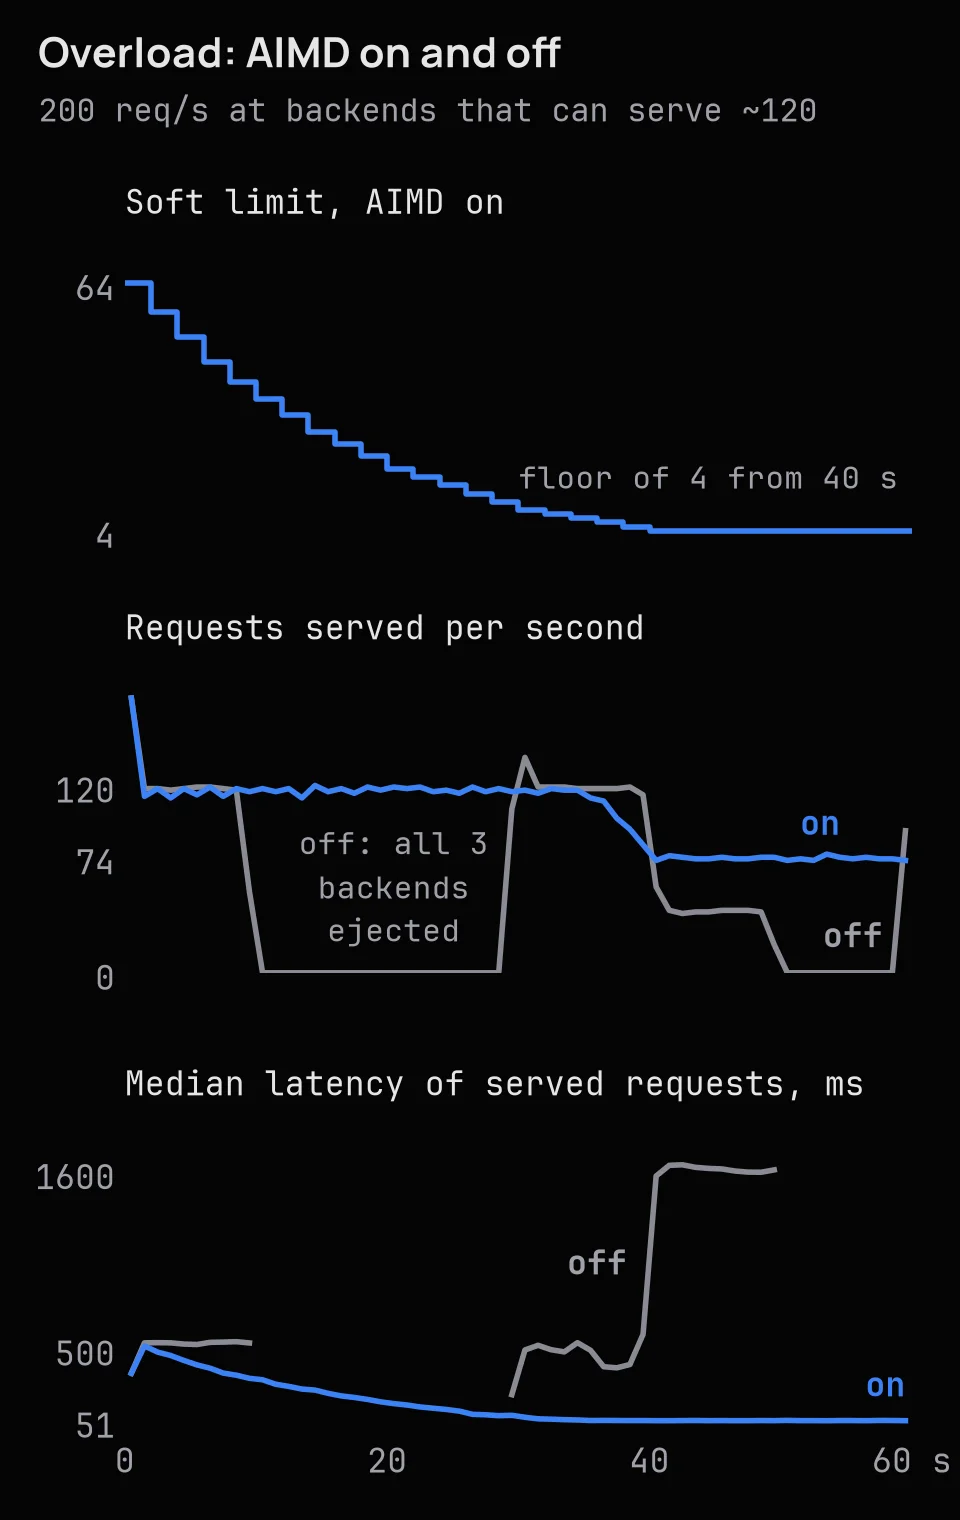
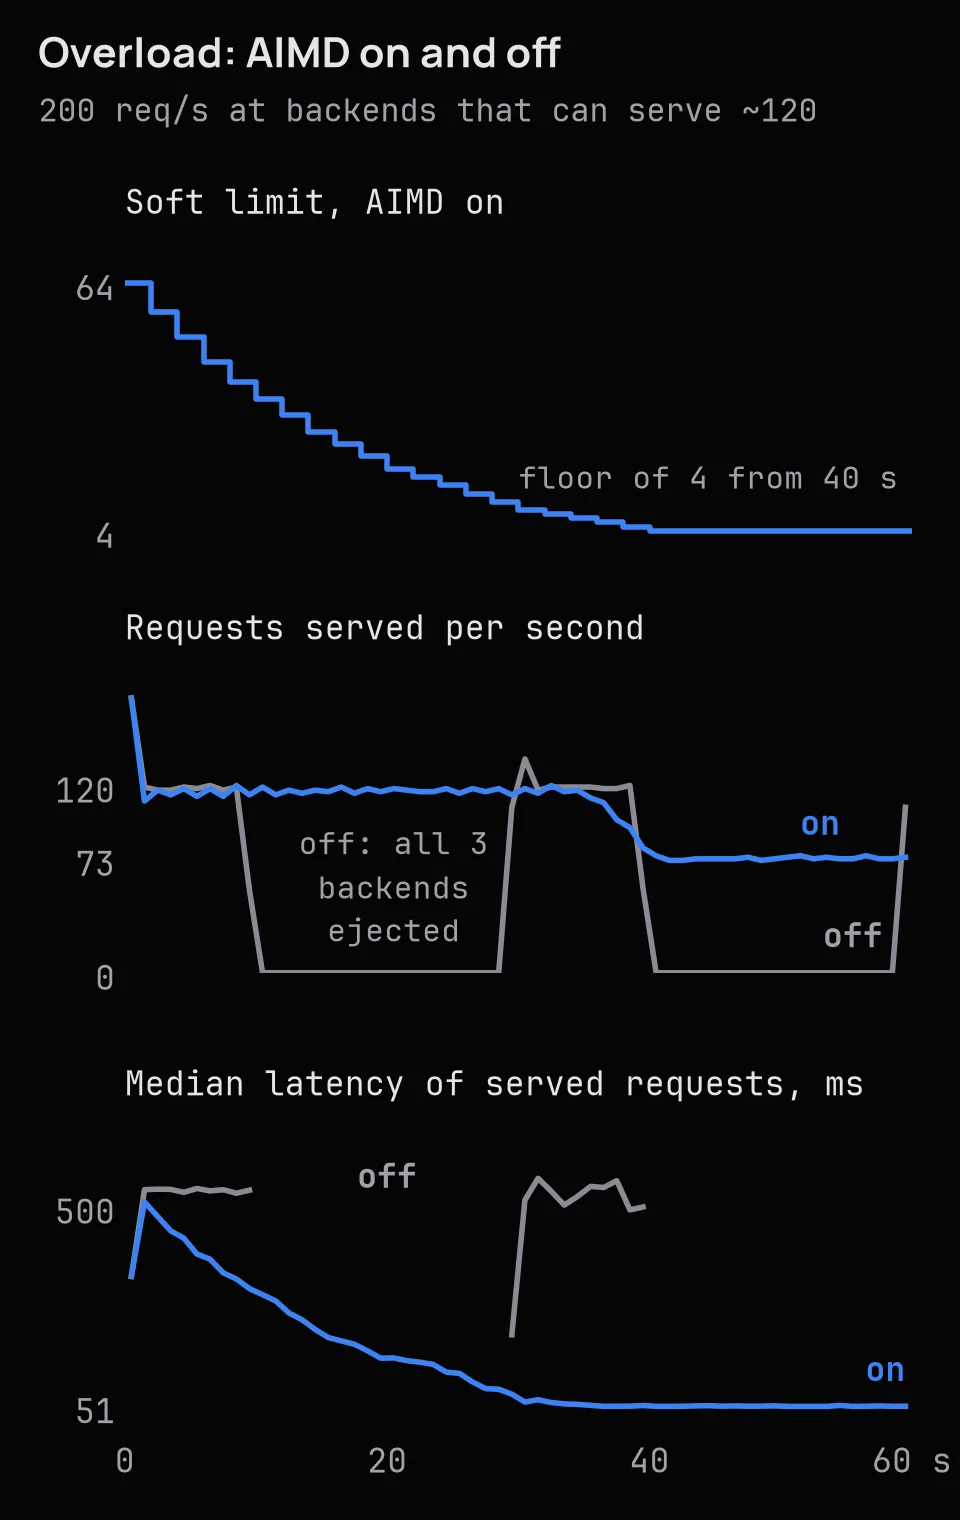
load-balancer case study: fill from the measured runs, redraw charts from the UTC runs
Claude-Session: https://claude.ai/code/session_01K44cDh2WvWMAHA7k8fudJW

diff --git a/src/app/projects/load-balancer/page.tsx b/src/app/projects/load-balancer/page.tsx
@@ -6,7 +6,7 @@ import { Icon } from '@/components/icons'
 import { Shot } from '@/components/case-study/shot'
 
 const DESCRIPTION =
-  'A concurrent HTTP load balancer in Go, written for SIT315 at Deakin in 2025. Five ways to pick a backend, health checks, circuit breakers, retries, an AIMD concurrency limit and Prometheus metrics, measured on a MacBook in October 2026 with real logs.'
+  'A concurrent HTTP load balancer in Go, written for SIT315 at Deakin in 2025: four balancing strategies plus sticky and canary routing, health checks, circuit breakers, retries, an AIMD concurrency limit and Prometheus metrics. Re-tested on my MacBook in October 2026, with real logs.'
 
 export const metadata: Metadata = {
   title: 'load-balancer · Go',
@@ -19,11 +19,13 @@ export const metadata: Metadata = {
     url: '/projects/load-balancer',
     title: 'load-balancer · Samridh Limbu',
     description: DESCRIPTION,
+    images: [{ url: '/projects/load-balancer/failover.webp', width: 960, height: 920, alt: 'Chart: requests served per second while one of three backends is killed and restarted' }],
   },
   twitter: {
-    card: 'summary',
+    card: 'summary_large_image',
     title: 'load-balancer · Samridh Limbu',
     description: DESCRIPTION,
+    images: ['/projects/load-balancer/failover.webp'],
   },
 }
 
@@ -35,38 +37,81 @@ const GREEN = 'var(--term-green)'
 const PROSE = { fontFamily: SANS, fontSize: 15, color: 'var(--fg-dim)', lineHeight: 1.65, maxWidth: 640 }
 
 const METRICS = [
-  { k: 'mean latency, RR → P2C', v: '__RR_MEAN__ → __P2C_MEAN__ ms' },
-  { k: 'failed of __FO_N__ with a backend killed', v: '__FO_ERR__' },
+  { k: 'mean latency, round-robin → P2C', v: '54 → 32 ms' },
+  { k: 'failed of 19,995 with a backend killed', v: '1' },
+  { k: 'served under overload, AIMD on vs off', v: '6,090 vs 2,527' },
   { k: 'lines of Go', v: '1,801' },
 ]
 
 // Real excerpts from $S/runs/*/lb.log and /metrics, lines trimmed by selection only.
-const FAILOVER_LOG = `__FAILOVER_LOG__`
+const FAILOVER_LOG = `2026/10/27 17:14:25 http://localhost:8430 [up]
+2026/10/27 17:14:25 http://localhost:8431 [up]
+2026/10/27 17:14:25 http://localhost:8432 [up]
+2026/10/27 17:14:25 Go LB v21 (HD Edition) starting at :3430
+…
+2026/10/27 17:14:45 INFO access req_id=3c0744b3f40b508d5fcdbf3a7d2b3202 client=10.0.0.198 method=GET path=/ backend=http://localhost:8432 status=200 latency_ms=60.315583
+2026/10/27 17:14:45 INFO access req_id=2321bd34b9b81e6679ca524d0920d61a client=10.0.0.1 method=GET path=/ backend=http://localhost:8432 status=200 latency_ms=48.675250000000005
+2026/10/27 17:14:45 INFO access req_id=809004577bb75a7e360c8678be3b42de client=10.0.0.4 method=GET path=/ backend=http://localhost:8432 status=200 latency_ms=56.56
+…
+2026/10/27 17:14:55 health: http://localhost:8432 -> DOWN
+…
+2026/10/27 17:14:55 INFO access req_id=64315b73bf0bdd9a146195b72906b4bb client=10.0.0.6 method=GET path=/ backend=http://localhost:8432 status=502 latency_ms=29.057333
+…
+2026/10/27 17:15:05 INFO access req_id=f05d8cbe8fb83f595ef24519cc64f24d client=10.0.0.13 method=GET path=/ backend=http://localhost:8432 status=200 latency_ms=57.404790999999996
+…
+2026/10/27 17:15:15 INFO access req_id=c7572b35a3c655e792dbbdf7d7279739 client=10.0.0.19 method=GET path=/ backend=http://localhost:8432 status=200 latency_ms=16.756917
+…
+2026/10/27 17:15:21 health: http://localhost:8432 -> UP`
 
-const FAILOVER_METRICS = `__FAILOVER_METRICS__`
+const FAILOVER_METRICS = `lb_backend_requests_total{backend="http://localhost:8430",code="200"} 8174
+lb_backend_requests_total{backend="http://localhost:8431",code="200"} 8175
+lb_backend_requests_total{backend="http://localhost:8432",code="200"} 3645
+lb_backend_requests_total{backend="http://localhost:8432",code="502"} 1
+lb_backend_up{backend="http://localhost:8430"} 1
+lb_backend_up{backend="http://localhost:8431"} 1
+lb_backend_up{backend="http://localhost:8432"} 1
+lb_requests_total{code="200",method="GET"} 19994
+lb_requests_total{code="502",method="GET"} 1`
 
-const OVERLOAD_LOG = `__OVERLOAD_LOG__`
+const OVERLOAD_LOG = `2026/10/27 17:18:57 outlier: http://localhost:8430 ejected for latency (errRate=0.00, ewma=0.523s) until 2026-10-27T17:19:17Z
+2026/10/27 17:18:57 outlier: http://localhost:8431 ejected for latency (errRate=0.00, ewma=0.535s) until 2026-10-27T17:19:17Z
+2026/10/27 17:18:57 outlier: http://localhost:8432 ejected for latency (errRate=0.00, ewma=0.545s) until 2026-10-27T17:19:17Z
+…
+2026/10/27 17:19:27 outlier: http://localhost:8430 ejected for latency (errRate=0.00, ewma=0.501s) until 2026-10-27T17:19:47Z
+2026/10/27 17:19:27 outlier: http://localhost:8431 ejected for latency (errRate=0.00, ewma=0.458s) until 2026-10-27T17:19:47Z
+2026/10/27 17:19:27 outlier: http://localhost:8432 ejected for latency (errRate=0.00, ewma=0.647s) until 2026-10-27T17:19:47Z
+…
+lb_backend_outlier_ejections_total{backend="http://localhost:8430",reason="latency"} 2
+lb_backend_outlier_ejections_total{backend="http://localhost:8431",reason="latency"} 2
+lb_backend_outlier_ejections_total{backend="http://localhost:8432",reason="latency"} 2
+lb_requests_total{code="200",method="GET"} 2527
+lb_requests_total{code="503",method="GET"} 9472`
 
-const STRATEGY_ROWS: [string, string, string, string, string][] = __STRATEGY_ROWS__
+const STRATEGY_ROWS: [string, string, string, string, string][] = [
+  ['round-robin', '33.3 %', '24.3', '125.0', '126.2'],
+  ['weighted RR 3:3:1', '14.3 %', '22.1', '122.9', '126.0'],
+  ['least-conn', '10.3 %', '22.7', '123.0', '127.6'],
+  ['P2C-EWMA', '11.0 %', '21.6', '121.7', '125.6'],
+]
 
 const DECISIONS = [
-  ['a breaker per backend', 'health checks alone', 'Three failures in a row open a backend\'s circuit breaker, and the picker skips it. In the kill test that happened inside the first second; the health check, which needs two failed probes 5 s ± 2 s apart, marked it down __FO_DOWN__ s later.'],
+  ['a breaker per backend', 'health checks alone', 'Three failures in a row open a backend\'s circuit breaker, and the picker skips it. In the kill test that happened inside the first second; the health check, which needs two failed probes 5 s ± 2 s apart, marked it down about 10 s later.'],
   ['retry GET, HEAD and OPTIONS only', 'retry everything', 'When the connection to a backend fails, the proxy waits 10 to 40 ms and sends the request to another backend, up to twice. A POST is never resent, because it might already have done its work.'],
   ['P2C on EWMA latency', 'checking every backend', 'Each request looks at two random backends and compares one number for each, so the work per request stays the same as the pool grows. The EWMA moves 20 % of the way to each new response time.'],
   ['a soft limit inside a hard one', 'one fixed connection cap', 'A semaphore of 64 is the hard ceiling. Below it, AIMD moves a soft limit between 4 and 64 every 2 s: down to 90 % when average latency is over 200 ms or more than 5 % of requests are turned away, otherwise up by one.'],
-  ['switches at runtime', 'restarts', 'POST /admin/flip changes the strategy on a running balancer, and backends can be added, removed or drained without a restart. Every strategy test below used /admin/flip on a fresh process.'],
+  ['switches at runtime', 'restarts', 'POST /admin/flip changes the strategy on a running balancer, and backends can be added, removed or drained without a restart. Each strategy run below started a fresh process and set its strategy with /admin/flip; round-robin is the default.'],
 ]
 
 const FIXES = [
-  ['Half-open ignores the health check.', 'After 10 s an open breaker lets requests through again, even when the backend is marked down. In the kill test that cost one 502 every 10 s until the backend came back.'],
-  ['AIMD can lock itself at the floor.', 'The reject rate counts the requests the limit itself turns away. Once the limit is low, rejects stay above 5 %, so it never climbs back, and served traffic stayed at __AIMD_FLOOR_RPS__ a second when the backends could take about 120.'],
-  ['Outlier ejection has no cap.', 'With AIMD off, all three backends crossed the 400 ms line in the same 10 s window and were ejected together, so the balancer served nothing for 20 s.'],
+  ['Half-open ignores the health check.', 'After 10 s an open breaker lets requests through again, even when the health check has marked the backend down. In the kill test those trials hit the dead backend every 10 s. With retries on, one reached a client as a 502; with retries off, two did.'],
+  ['AIMD can lock itself at the floor.', 'The reject rate counts the requests the limit itself turns away. While more traffic arrives than the backends can serve, some must be turned away, so rejects never drop under 5 % and the limit only goes down. It sat at 4 from 40 s on, and served traffic fell to 73 a second when the backends could take about 120.'],
+  ['Outlier ejection has no cap.', 'With AIMD off, all three backends crossed the 400 ms line in the same 10 s window and were ejected together, so the balancer served nothing for 20 s, twice in one minute.'],
   ['The rate limit trusts X-Forwarded-For.', 'Any client can set that header and get a fresh token bucket. The load generator here used it on purpose, to act as 200 clients.'],
   ['The access log names the first pick.', 'A request that failed on a dead backend and was retried elsewhere is logged against the dead one, with status 200. The README calls the log JSON; it is key=value text.'],
 ]
 
 const STACK: [string, string][] = [
-  ['Language', 'Go (go.mod says 1.23; built here with 1.27)'],
+  ['Language', 'Go (go.mod says 1.23; built for these tests with 1.27.3)'],
   ['Strategies', 'round-robin · weighted round-robin · least-connections · P2C-EWMA · IP-hash sticky · canary percentage'],
   ['Resilience', 'semaphore · AIMD soft limit · token bucket per client · circuit breaker · active health checks · outlier ejection · 30 s warm-up · retries'],
   ['Observability', 'Prometheus client_golang at /metrics · log/slog access log · /admin/metrics/json'],
@@ -105,7 +150,7 @@ export default function LoadBalancerPage() {
             <span className="pill" style={{ fontFamily: MONO }}>SIT315 · Go · 2025</span>
           </div>
           <p style={{ ...PROSE, fontSize: 'var(--text-base)', margin: 0 }}>
-            __INTRO__
+            A reverse proxy in Go that spreads HTTP requests across a pool of backends. I wrote it for SIT315 (Concurrent and Distributed Systems) at Deakin in 2025. In October 2026 I ran it again on my MacBook against fake backends, to see which of its features help under load. The charts and logs on this page come from those runs.
           </p>
           <div style={{ display: 'flex', gap: 8, flexWrap: 'wrap', marginTop: 16 }}>
             <a href="https://github.com/clupai8o0/load-balancer" target="_blank" rel="noopener noreferrer" className="btn btn-primary" style={{ fontFamily: MONO }}><Icon name="github" size={12} /> github</a>
@@ -126,7 +171,7 @@ export default function LoadBalancerPage() {
         <div style={{ marginBottom: 40 }}>
           <div className="section-label" style={{ fontFamily: MONO }}>Context</div>
           <p style={{ ...PROSE, margin: 0 }}>
-            __CONTEXT__
+            The unit asked for a concurrent load balancer. I kept adding to it until the code reached v21: a semaphore, health checks, circuit breakers, four balancing strategies, rate limits, retries, an adaptive concurrency limit, outlier ejection, warm-up and Prometheus metrics, with strategies and backends switchable while it runs. This page puts them under load together: what each strategy does with one slow backend, what happens when a backend dies, and what happens when more traffic arrives than the backends can take.
           </p>
         </div>
 
@@ -145,28 +190,28 @@ export default function LoadBalancerPage() {
         {/* Test rig */}
         <div className="section-label" style={{ fontFamily: MONO }}>How I tested it</div>
         <p style={{ ...PROSE, margin: '0 0 40px' }}>
-          __RIG__
+          Everything ran on my MacBook on 27 Oct 2026, built from the repo as it is on GitHub. Three dummy backends in Go sleep for a set time per request, give or take 5 ms, and can be limited to a few requests at once. An open-loop load generator, also in Go, sends a fixed number of requests a second whatever the response time. It spreads them over 200 fake clients so the per-client rate limit stays out of the way, records every response and scrapes /metrics once a second. A Python script starts everything, kills and restarts backends on cue and keeps the logs. The repo has a single commit, so there is no older version to compare against. For the before-and-after tests I built two copies with one change each: retries off, and the AIMD controller off.
         </p>
 
         {/* Strategies */}
         <div className="section-label" style={{ fontFamily: MONO }}>Four strategies, one slow backend</div>
         <p style={{ ...PROSE, margin: '0 0 20px' }}>
-          __STRAT_PROSE__
+          Two backends answer in about 20 ms and the third in about 120 ms. Each strategy got 200 requests a second for 60 s on a fresh process, three times. Round-robin sends the slow backend a third of the traffic, and weighted round-robin at 3:3:1 a seventh. Least-connections and P2C both send it about a tenth and cut the mean from 54 ms to 32 or 33. Those two tie: the gap between them is smaller than the gap between runs of the same strategy. The p95 and p99 hardly move, because the slow backend still takes more than 5 % of requests and they are the slowest ones.
         </p>
         <div data-reveal style={{ maxWidth: 480, margin: '0 auto 24px' }}>
           <Shot
             src="/projects/load-balancer/strategies.webp"
-            alt="__STRAT_ALT__"
+            alt="Two bar charts. Share of requests sent to the slow backend: round-robin 33 %, weighted RR 14 %, least-conn 10 %, P2C-EWMA 11 %. Mean latency: 54, 36, 33 and 32 ms."
             width={960}
             height={1000}
-            caption="__STRAT_CAPTION__"
+            caption="Measured on my MacBook, 27 Oct 2026. Median of three 60 s runs per strategy (two for P2C), about 12,000 requests per run."
           />
         </div>
         <div data-reveal style={{ overflowX: 'auto', marginBottom: 24 }}>
           <table style={{ borderCollapse: 'collapse', fontFamily: MONO, fontSize: 'var(--text-xs)', color: 'var(--fg-dim)', minWidth: 420 }}>
             <thead>
               <tr style={{ color: 'var(--muted)', textAlign: 'right' }}>
-                {['strategy', 'slow share', 'p50', 'p95', 'p99'].map((h, i) => (
+                {['strategy', 'to slow', 'p50 ms', 'p95 ms', 'p99 ms'].map((h, i) => (
                   <th key={h} style={{ fontWeight: 400, padding: '0 0 8px', paddingLeft: i ? 16 : 0, textAlign: i ? 'right' : 'left' }}>{h}</th>
                 ))}
               </tr>
@@ -182,56 +227,59 @@ export default function LoadBalancerPage() {
             </tbody>
           </table>
         </div>
+        <p style={{ ...PROSE, fontSize: 'var(--text-sm)', color: 'var(--muted)', margin: '0 0 24px' }}>
+          One P2C run is left out. Its balancer process got a stop signal 15 s in, from outside the test scripts, and the load generator&apos;s remaining 8,901 requests failed. The P2C row is the median of the two full runs.
+        </p>
         <div data-reveal style={{ maxWidth: 400, margin: '0 auto 40px' }}>
           <Shot
             src="/projects/load-balancer/p2c-ewma.svg"
             alt="Diagram: a request samples two of three backends at random, sends the request to the one with the lower EWMA (21 ms over 122 ms), and the EWMA update rule, 0.2 times the latest plus 0.8 times the old value."
             width={400}
             height={400}
-            caption="Diagram. The two EWMA values are the ones /metrics reported at the end of a P2C run."
+            caption="Diagram. The two EWMA values are the ones /metrics reported at the end of the second P2C run."
           />
         </div>
 
         {/* Failover */}
         <div className="section-label" style={{ fontFamily: MONO }}>Killing a backend mid-run</div>
         <p style={{ ...PROSE, margin: '0 0 20px' }}>
-          __FO_PROSE__
+          Three equal backends at about 20 ms, 200 requests a second for 100 s. At 20 s the test script killed the :8432 process, and at 50 s it started it again.
         </p>
         <div data-reveal style={{ maxWidth: 480, margin: '0 auto 24px' }}>
           <Shot
             src="/projects/load-balancer/failover.webp"
-            alt="__FO_ALT__"
+            alt="Line chart of requests served per second. Before 20 s each backend serves about 67. When :8432 dies at 20 s its line drops to zero and the other two each rise to 100. One 502 at 30 s. The health check marks it down at about 30 s and up at about 56 s, then its share climbs back over about 30 s of warm-up."
             width={960}
             height={920}
-            caption="__FO_CAPTION__"
+            caption="Measured on my MacBook, 27 Oct 2026: 19,995 requests over 100 s, one failed. Shaded: the :8432 process is not running. lb.log stamps whole seconds, so the health-check times are to the nearest second."
           />
         </div>
-        <LogBlock label="lb.log, the same run" text={FAILOVER_LOG} />
+        <LogBlock label="lb.log, the same run (UTC)" text={FAILOVER_LOG} />
         <p style={{ ...PROSE, fontSize: 'var(--text-sm)', color: 'var(--muted)', margin: '0 0 24px' }}>
-          __FO_LOG_NOTE__
+          The three 17:14:45 lines name :8432 with status 200, but :8432 had just died. Those requests failed there and were retried on another backend, which is why they took 49 to 60 ms instead of about 20. The 17:14:55 and 17:15:05 lines are breaker trials, 10 s apart, that hit the dead backend: the first reached the client as the run&apos;s only 502, the second was retried. The 17:15:15 line, at 17 ms, is the restarted :8432 passing its trial.
         </p>
         <LogBlock label="GET /metrics at the end of the run" text={FAILOVER_METRICS} />
         <p style={{ ...PROSE, margin: '12px 0 40px' }}>
-          __RETRY_PROSE__
+          /metrics agrees with the client&apos;s count: 19,994 OK and one 502. It also credits :8432 with 3,645 successful requests, seven more than it served, because it counts by first pick too. With retries switched off in a copy, the same test failed 4 of 19,994 requests: two caught in flight when the process died, and the breaker trials at 30 s and 40 s. So retries mostly save the requests that are mid-flight when a backend dies.
         </p>
 
         {/* Overload */}
         <div className="section-label" style={{ fontFamily: MONO }}>Overload, with AIMD on and off</div>
         <p style={{ ...PROSE, margin: '0 0 20px' }}>
-          __AIMD_PROSE__
+          Here each backend works on two requests at a time and takes about 50 ms, so the three together can serve about 120 a second. The load generator sent 200 a second for 60 s, once with the AIMD controller running and once in a copy with it switched off, where the soft limit stays at 64.
         </p>
         <div data-reveal style={{ maxWidth: 480, margin: '0 auto 24px' }}>
           <Shot
             src="/projects/load-balancer/aimd.webp"
-            alt="__AIMD_ALT__"
+            alt="Three panels over 60 s. Top: the soft limit steps down from 64 to 4 by 40 s. Middle: requests served per second; with AIMD on, about 116 until 36 s, then 73; with it off, about 118, but zero from 10 to 28 s and from 40 to 58 s. Bottom: median latency; with AIMD on it falls from about 500 ms to 51 ms; with it off it stays around 530 ms whenever anything is served."
             width={960}
             height={1520}
-            caption="__AIMD_CAPTION__"
+            caption="Measured on my MacBook, 27 Oct 2026: two 60 s runs of 11,999 requests each. The limit comes from /metrics, scraped once a second."
           />
         </div>
         <LogBlock label="lb.log and /metrics, AIMD off" text={OVERLOAD_LOG} />
         <p style={{ ...PROSE, margin: '12px 0 40px' }}>
-          __AIMD_AFTER__
+          With AIMD on, the limit hit its floor of 4 at 40 s. Nothing was ejected, latency settled at about 51 ms, and 6,090 requests were served against 2,527 with it off. With it off, latency sat around 530 ms, the outlier check ejected all three backends at once, twice, and the balancer served nothing for two 20 s stretches. AIMD helped, but at its floor it served 73 a second when the backends could take about 120. The second fix below explains why.
         </p>
 
         {/* Key decisions */}
